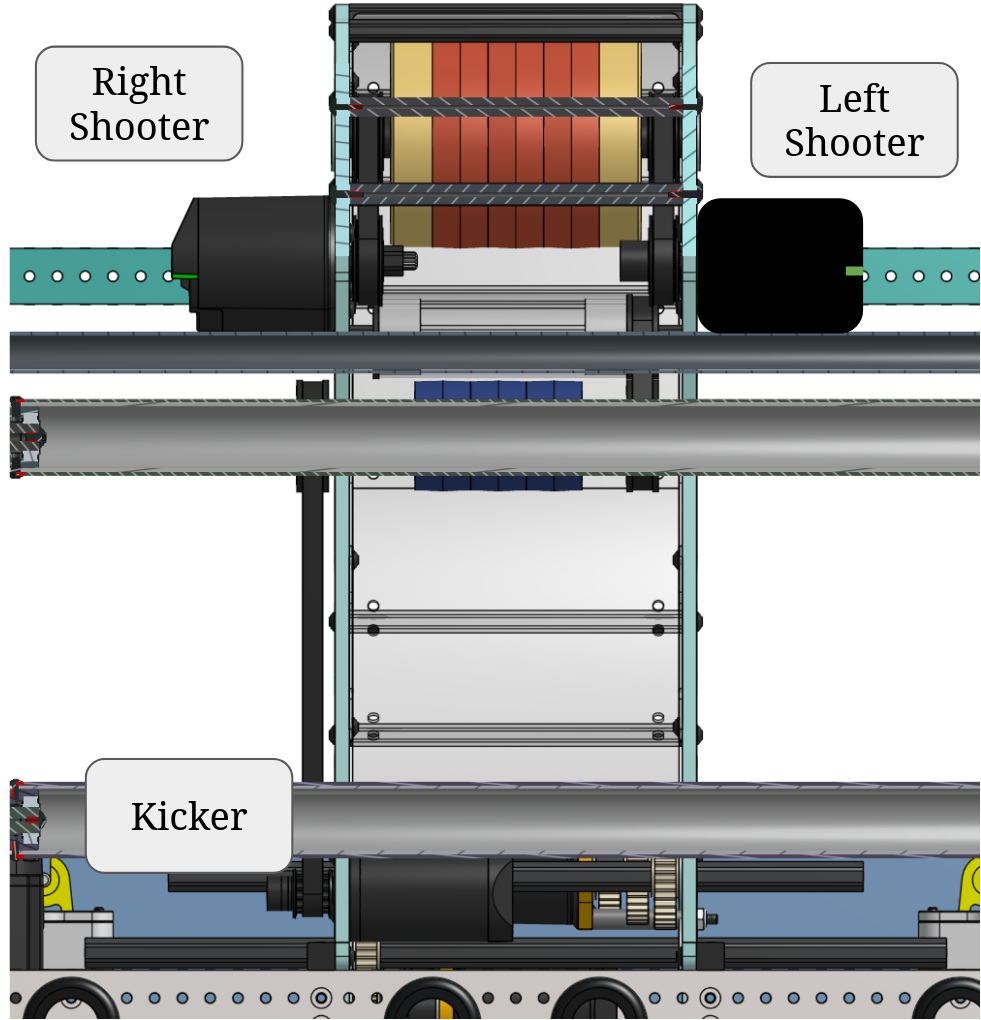
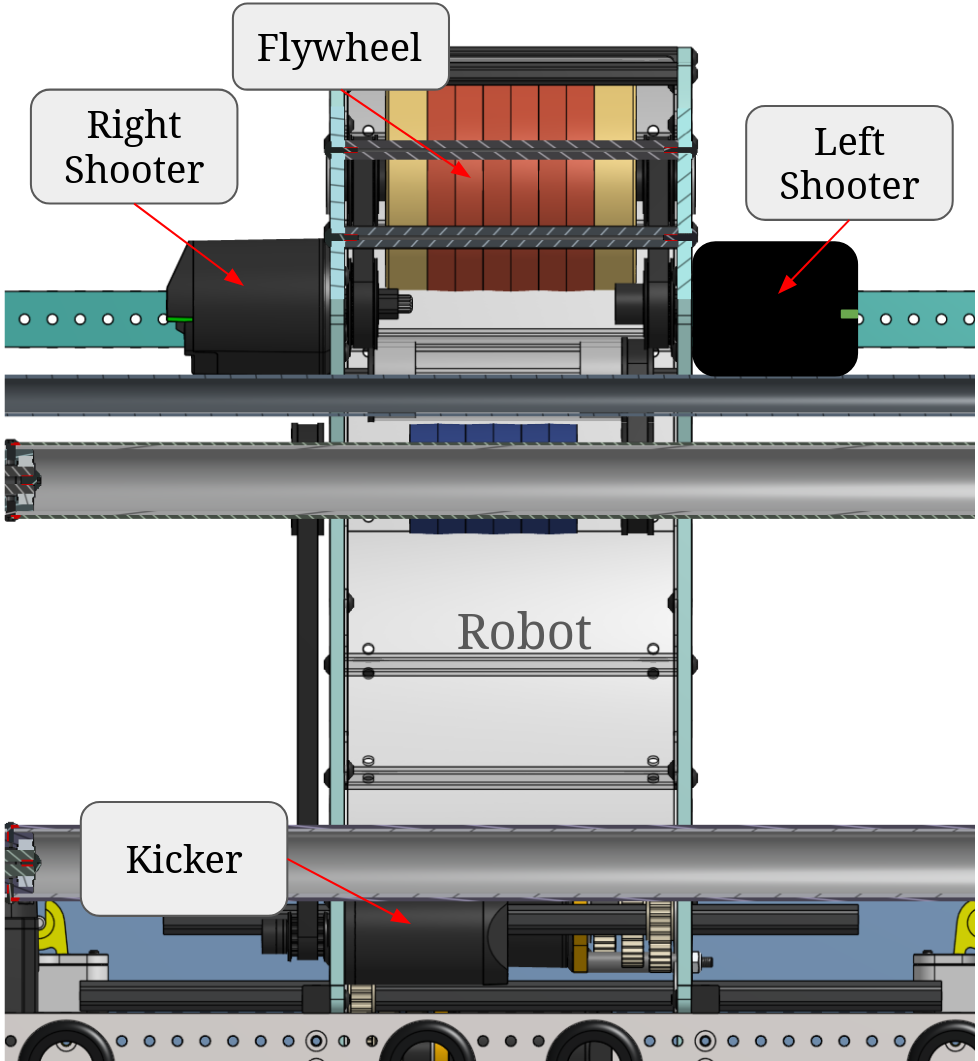
Addressed some diagram comments.

diff --git a/src/main/java/com/team2813/subsystems/shooter/README.md b/src/main/java/com/team2813/subsystems/shooter/README.md
@@ -1,6 +1,5 @@
 ![Image](../../../../../../../documentation/images/shooter_and_kicker_motor_diagram.png)
-Note: The robot is currently facing toward the camera. The directions for the motors are for when the robot is facing away.
-
+NOTE: The motor names ("Right" and "Left") appear inverted because are assigned with respect to robot forward direction, since the diagram depicts the robot facing the camera.
 ## Motors
 * Right & Left Shooter Motors.
   * Spin the brass flywheels to launch the fuel.
